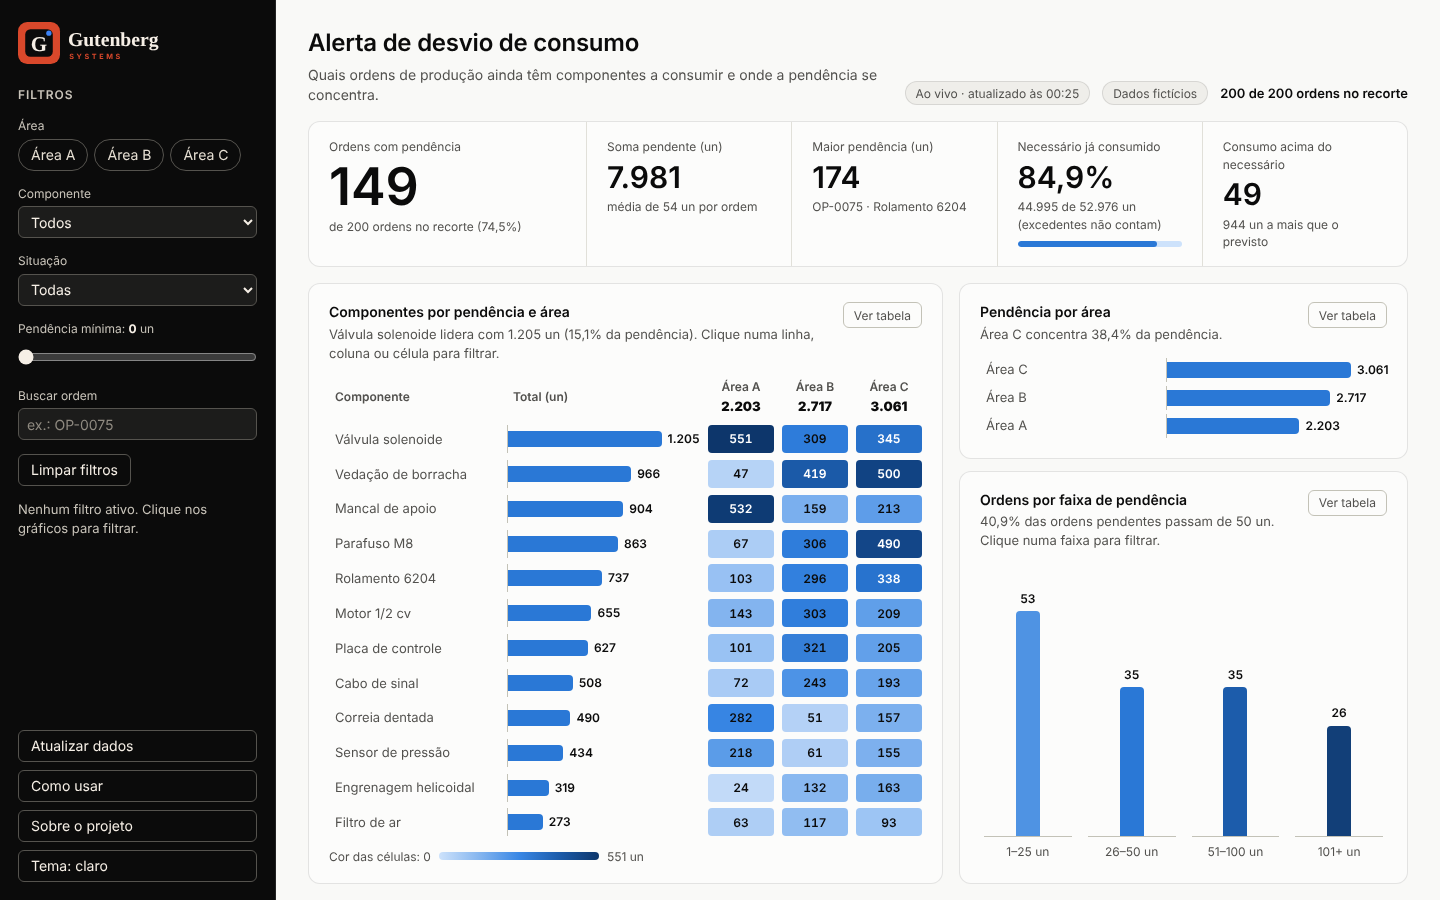
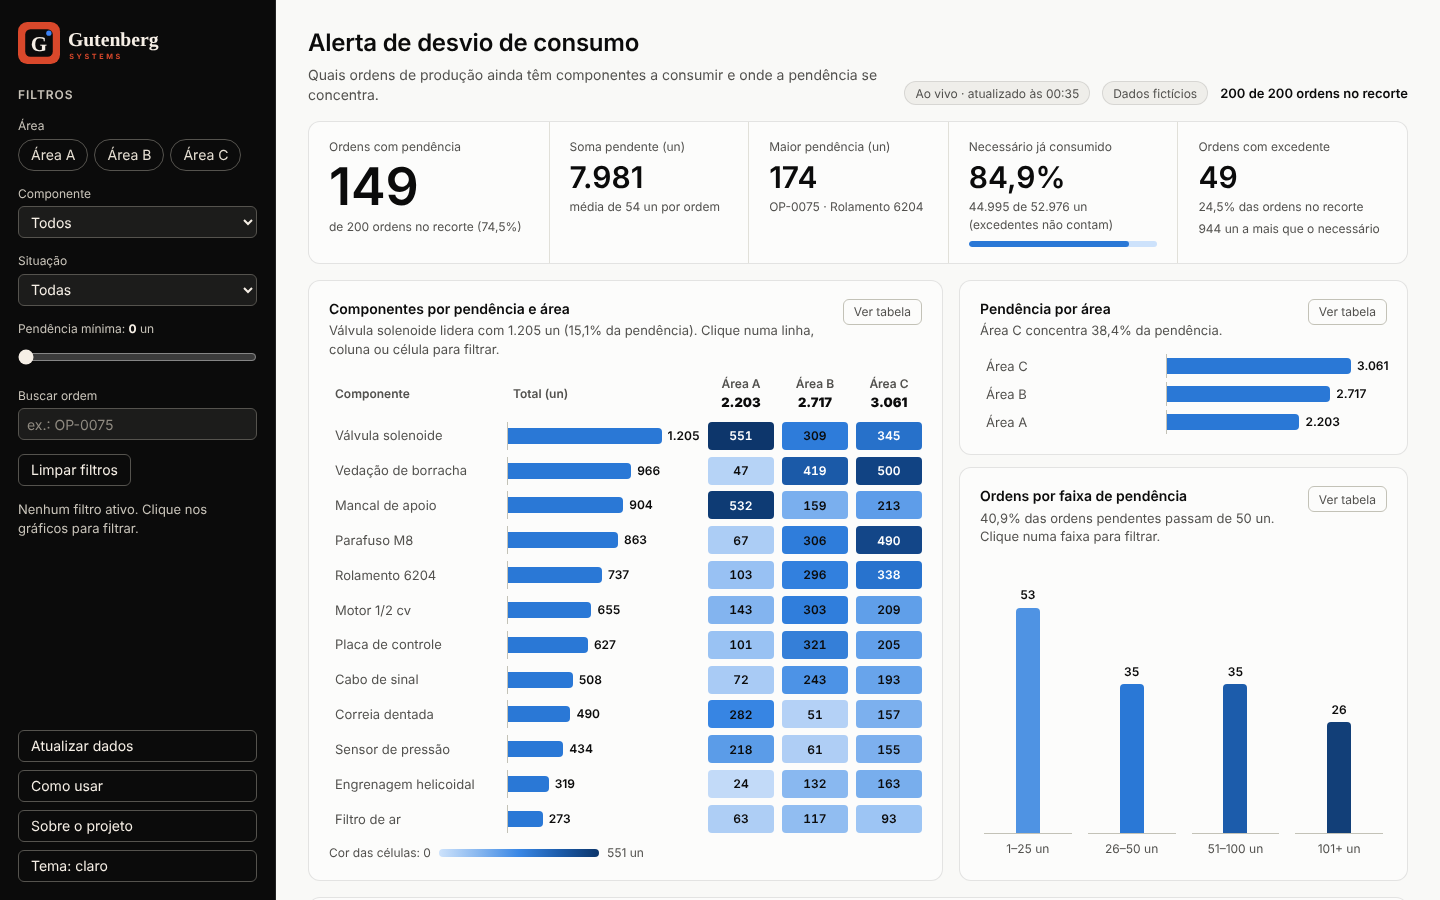
Atualiza a captura do dashboard e o texto alternativo no README
Nova captura da versão final (card "Ordens com excedente") e descrição da
tela no texto alternativo da imagem. Evidências ajustadas.

Claude-Session: https://claude.ai/code/session_018DZ5gqU6g5T2SKuKi5qr49

diff --git a/docs/evidencias.md b/docs/evidencias.md
@@ -55,4 +55,4 @@ Planos conferidos nos painéis de Make, Zapier e n8n. Detalhes em [`planos.md`](
 - **Teclado:** todos os controles têm foco visível; a matriz tem muitas paradas de Tab, por isso há o atalho "Pular para a tabela de ordens" (conferido: o foco vai para a tabela).
 - **Árvore de acessibilidade** conferida no Chromium (títulos, nomes dos controles, estado dos filtros). **Não** foi testado com leitor de tela real (NVDA, VoiceOver) nem com pessoas.
 - **Daltonismo:** simulação de deuteranopia e protanopia sobre a captura da página; a paleta de um matiz e os números escritos mantêm a leitura. Sem teste com pessoas.
-- A captura `docs/img/dashboard.png` foi substituída pela da nova versão. Foi tirada com o CSV do repositório servido no lugar da planilha, que tem os mesmos totais.
+- A captura `docs/img/dashboard.png` foi substituída pela da versão final (card "Ordens com excedente" incluído). Foi tirada com o CSV do repositório servido no lugar da planilha, que tem os mesmos totais, e o texto alternativo da imagem no README descreve o conteúdo da tela.

diff --git a/README.md b/README.md
@@ -6,7 +6,7 @@ Fluxo ponta a ponta que detecta ordens de produção com consumo abaixo do neces
 
 - **Demo do dashboard (sem instalação):** https://prodigyb0y.github.io/alerta-desvio-consumo/
 
-![Dashboard publicado no GitHub Pages](docs/img/dashboard.png)
+![Dashboard da Gutenberg Systems no GitHub Pages: barra lateral com filtros, cinco indicadores, matriz componente × área, pendência por área e faixas de pendência](docs/img/dashboard.png)
 
 ## Por que isso existe
 
